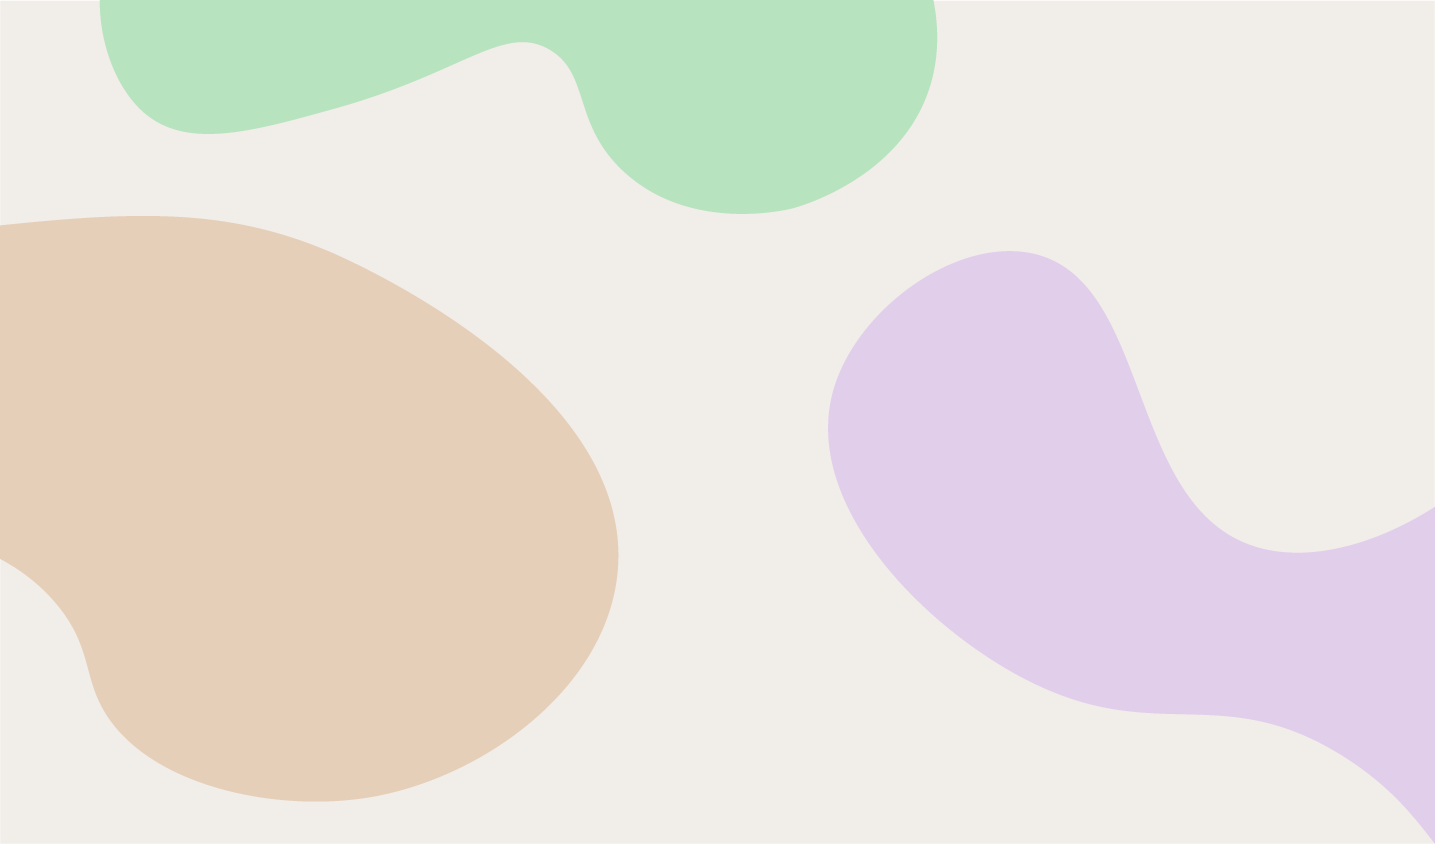
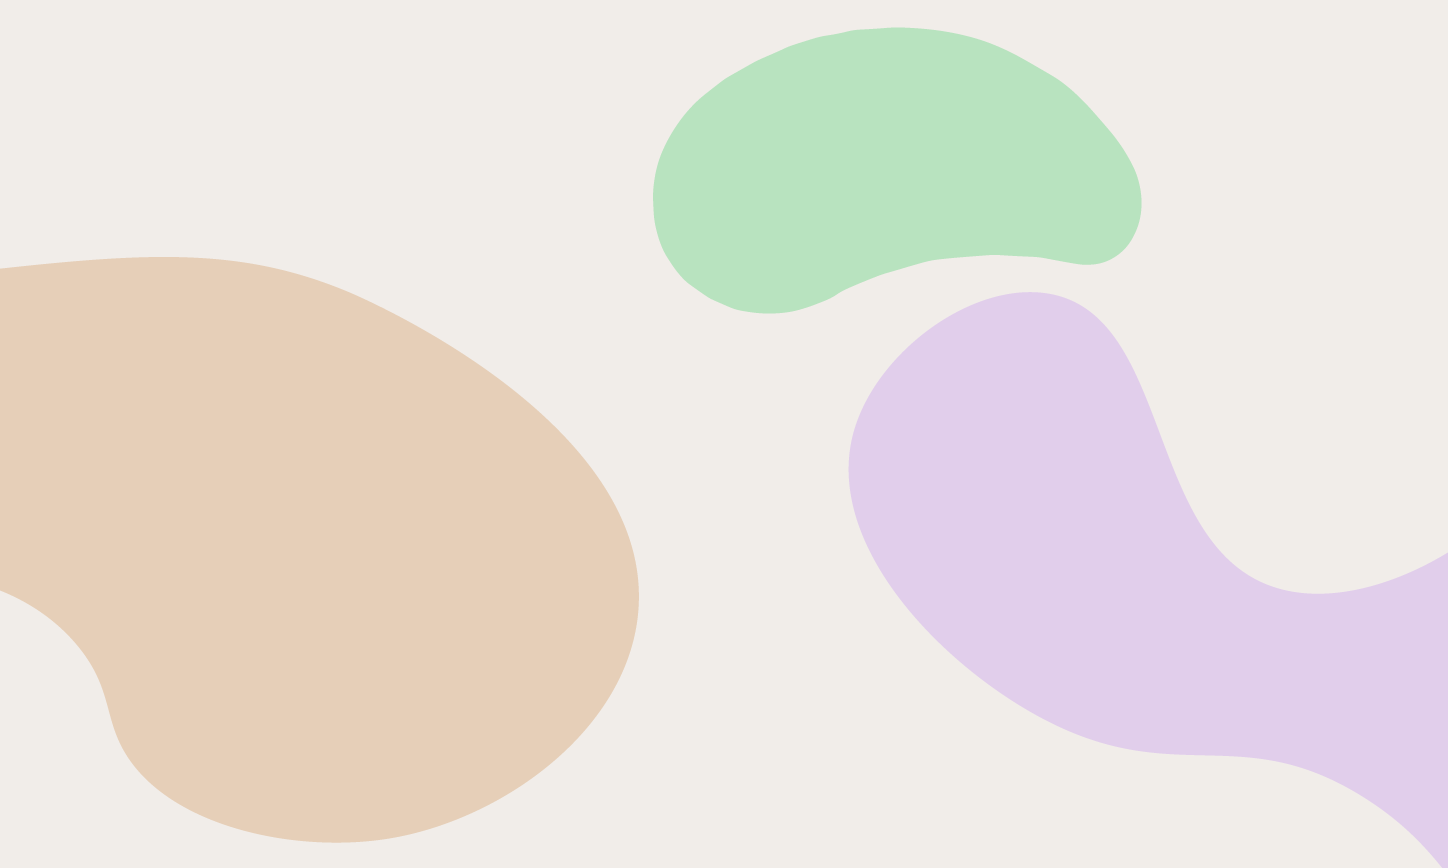
ヘッダーイメージの挿入、ミルク紹介の背景のサイズを変えたい

diff --git a/index.html b/index.html
@@ -5,6 +5,8 @@
     <meta http-equiv="X-UA-Compatible" content="IE=edge">
     <meta name="viewport" content="width=device-width, initial-scale=1.0">
     <title>Plant Milk #New Choice</title>
+    <!-- jqueryの読み込み　-->
+    <script src="https://ajax.googleapis.com/ajax/libs/jquery/3.5.1/jquery.min.js"></script>
      <!-- CSSのファイルを読み込むのを忘れない -->
      <link rel="stylesheet" href="style.css">
      <!-- テーマ用フォント -->
@@ -12,8 +14,7 @@
      <!-- テキスト用フォント -->
      <link rel="preconnect" href="https://fonts.googleapis.com">
      <link rel="preconnect" href="https://fonts.gstatic.com" crossorigin>
-<link href="https://fonts.googleapis.com/css2?family=Klee+One:wght@600&display=swap" rel="stylesheet">
-
+　　　<link href="https://fonts.googleapis.com/css2?family=Klee+One:wght@600&display=swap" rel="stylesheet">
 
 </head>
 <body>
@@ -38,7 +39,7 @@
     </section>
 
     <!-- ミルク一覧、ナビゲーション -->
-    <section class="milkname">
+    <!-- <section class="milkname">
         <div class="milkname-container">
             <div class="milk-dairy-container">
                     <nav>
@@ -52,7 +53,7 @@
             </div>
         </div>
 
-    </section>
+    </section> -->
 
     <!-- デイリー -->
     <section id="dairy" class="dairy">
@@ -166,7 +167,7 @@
     </section>
 
     <!-- レシピ一覧 -->
-    <section class="recipes">
+    <section class="content" id="recipes">
         <div class="recipes-content">
             <!-- <h5>Recipes</h5> -->
             <img src="img/recipes-font.png">
@@ -200,7 +201,7 @@
     </section>
 
     <!-- コラム -->
-    <section class="column">
+    <section class="content" id="column">
         <div class="column-content">
             <!-- <h6>Column</h6> -->
             <img src="img/column-font.png">
@@ -223,6 +224,23 @@
         </footer>
 
     </section>
+
+    <!-- フワッと -->
+<script>
+    $(function(){
+        $(window).scroll(function (){
+            $('.content').each(function(){
+                var targetElement = $(this).offset().top;
+                var scroll = $(window).scrollTop();
+                var windowHeight = $(window).height();
+                if (scroll > targetElement - windowHeight + 200){
+                    $(this).css('opacity','1');
+                    $(this).css('transform','translateY(0)');
+                }
+            });
+        });
+    });
+</script>
     
 </body>
 </html>

diff --git a/style.css b/style.css
@@ -8,13 +8,14 @@ section{
 }
 
 .header{
-  /* background-size: cover; */
+  background-size: cover;
   background-position: center center;
   background-repeat: no-repeat;
   position: relative;
-  height: 100vh;
-  background-image: url(img/header_img.png);
+  height: 1589px;
+  background-image: url(img/main.png);
 }
+
 
 .theme-container{
     position: absolute;
@@ -128,7 +129,11 @@ h1, h2, h3, h4{
     justify-content: center;
     align-items: center;
     padding: 72px 0px; 
-    background-color: #e1ceeb;
+    background-image: url(img/dairy-background.png);
+    background-size: cover;
+    background-position: center center;
+    background-repeat: no-repeat;
+    /* background-color: #e1ceeb; */
 }
 
 .dairy-text{
@@ -186,7 +191,11 @@ h1, h2, h3, h4{
     justify-content: center;
     align-items: center;
     padding: 72px 0px; 
-    background-color: #b8e3bf;
+    background-image: url(img/soy-background.png);
+    background-size: cover;
+    background-position: center center;
+    background-repeat: no-repeat;
+    /* background-color: #b8e3bf; */
 }
 
 .soy-text{
@@ -233,7 +242,11 @@ h1, h2, h3, h4{
     justify-content: center;
     align-items: center;
     padding: 72px 0px; 
-    background-color: #e6cfb8;
+    background-image: url(img/almond-background.png);
+    background-size: cover;
+    background-position: center center;
+    background-repeat: no-repeat;
+    /* background-color: #e6cfb8; */
 }
 
 .almond-text{
@@ -253,7 +266,11 @@ h1, h2, h3, h4{
     justify-content: center;
     align-items: center;
     padding: 72px 0px; 
-    background-color: #b2d8ed;
+    background-image: url(img/oats-background.png);
+    background-size: cover;
+    background-position: center center;
+    background-repeat: no-repeat;
+    /* background-color: #b2d8ed; */
 }
 
 .oats-text{
@@ -267,7 +284,7 @@ h1, h2, h3, h4{
     object-fit: contain;
 }
 
-.recipes{
+#recipes{
     width: 100vW;
     height: 842px;
     background-image: url(img/recipe_background.png);
@@ -380,7 +397,7 @@ h5{
 
 
 
-.column{
+#column{
     width: 100vw;
     height: 505px;
     background-image: url(img/column.png);
